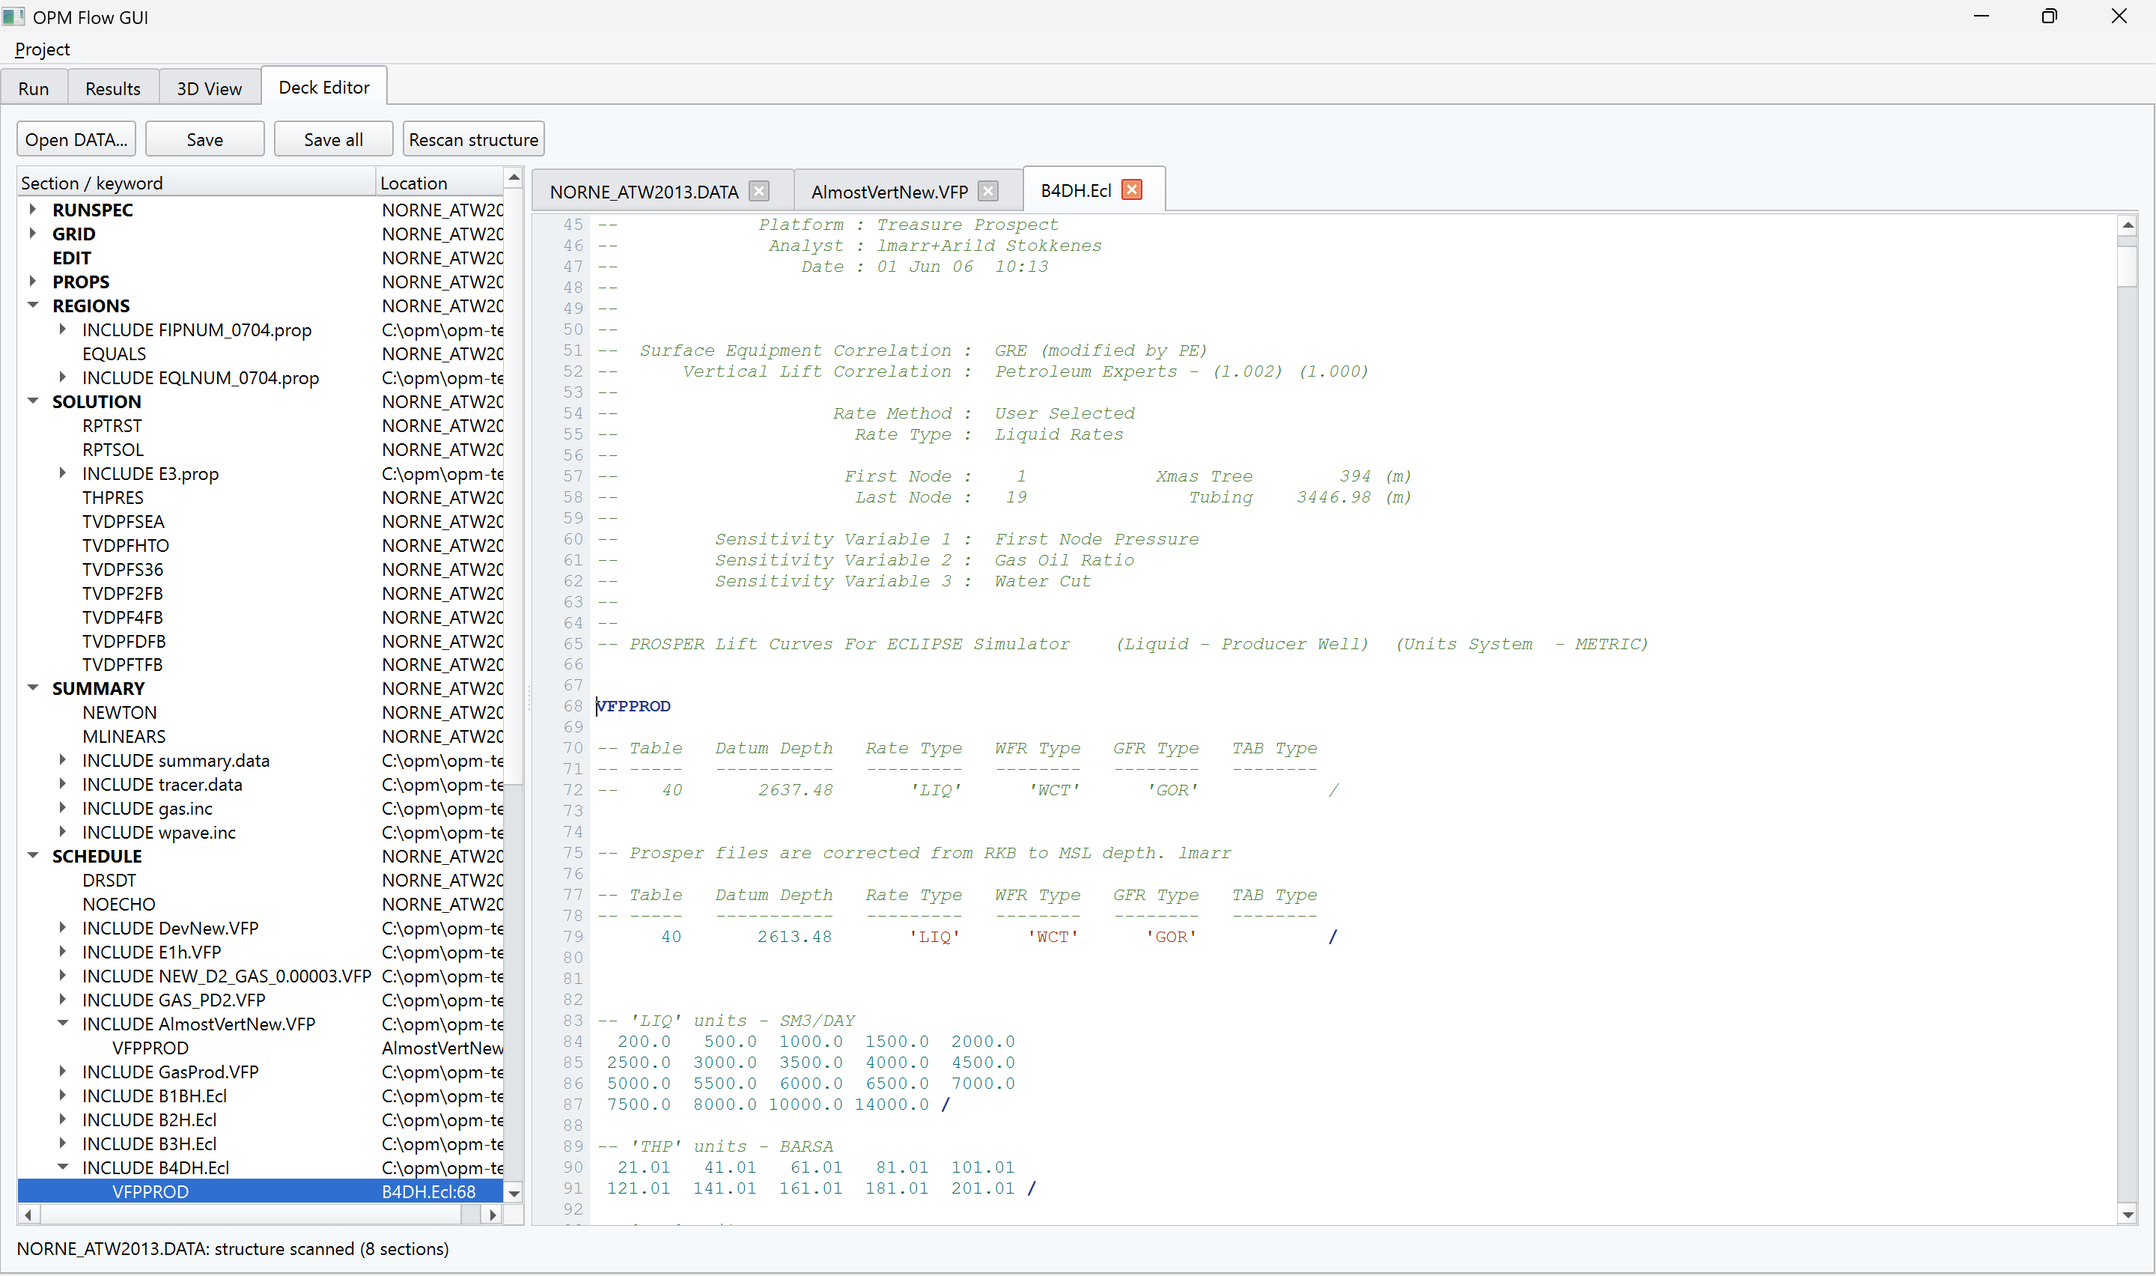
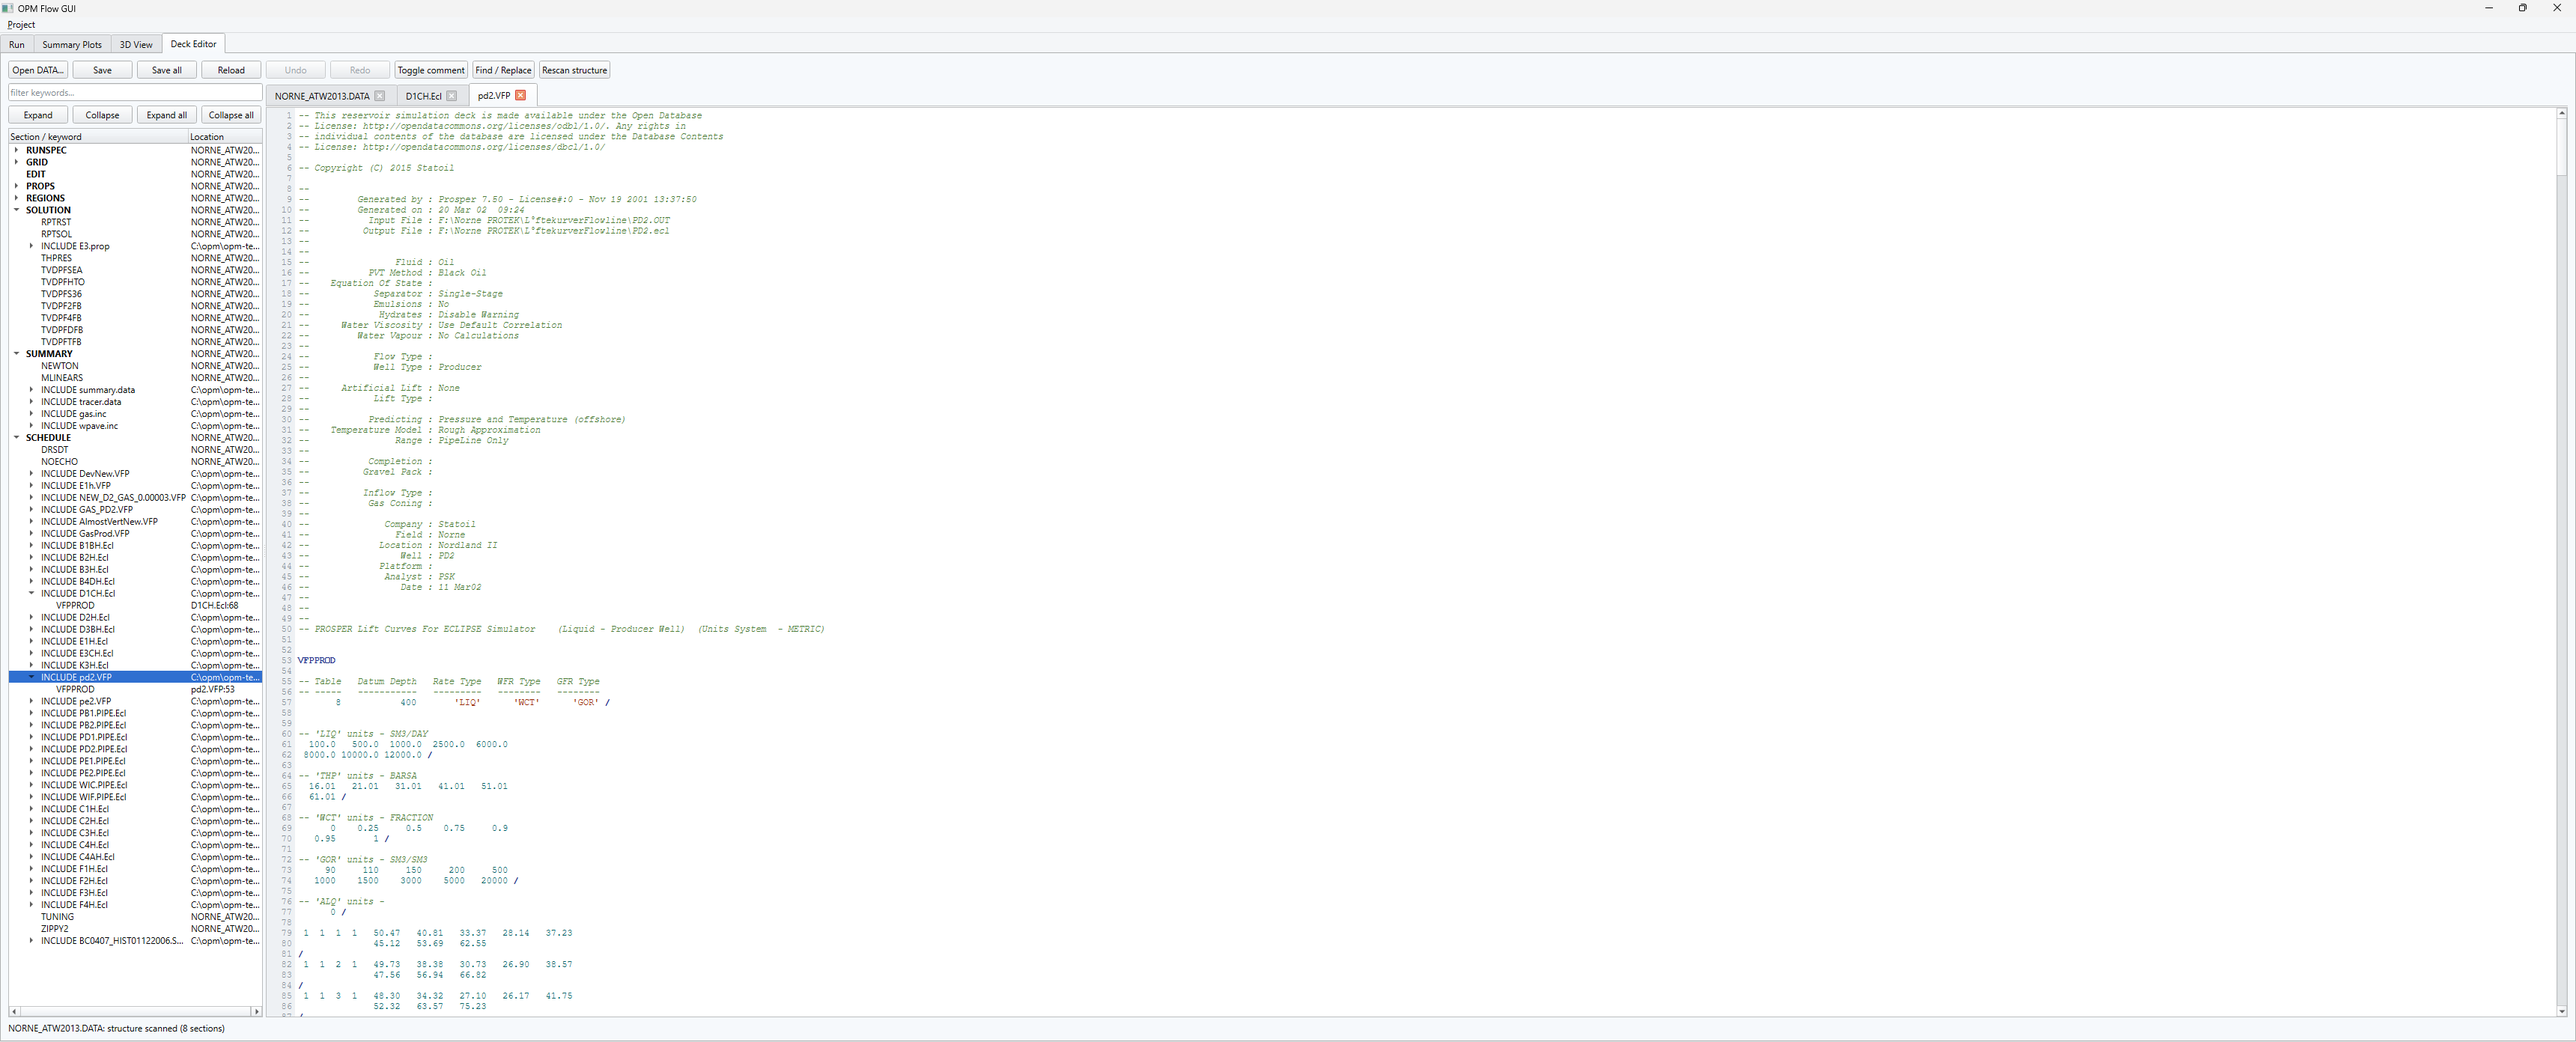
flow-gui 0.7.0: Windows package caught up with the GUI
The Windows package shipped flow-gui 0.3.2 while the Linux tarball was
already 0.7.0, so the notes carried two feature lists: a short one for
Windows and a "on top of the Windows feature list it adds" section under
Linux. Both platforms now build 0.7.0 from the same sources, so there is
one list again, under Contents, and the Linux section says only what is
actually Linux-specific - how to run the tarball, and that no flow is
released for it.

The staged package, the zip, the Inno Setup installer and the MSIX were
all rebuilt from the current build trees, so what they contain is
flow.exe 2026.10-pre and flow-gui.exe 0.7.0.

Screenshots refreshed against the Norne benchmark, taken from this
build: the Run tab mid-run on a custom output directory, the Summary
Plots tab comparing two runs of the same deck across a 2x2 subplot
layout, the 3D view part-way through the report steps, and the deck
editor following an INCLUDE into a lift-curve table.

diff --git a/release-notes/v2026.10-pre.md b/release-notes/v2026.10-pre.md
@@ -6,15 +6,18 @@ OPM Flow for Windows — native MSVC build (hybrid MPI + OpenMP) with a Qt GUI w
 - `OPM-Flow-2026.10.0.0.msix` — unsigned MSIX (for sideloading/Store experiments; see PACKAGING.md). **Note:** Windows will not enable its **Install** button unless the signing certificate is already trusted on the machine (it shows *"Publisher: Unknown / this app package's certificate could not be verified"*).
 - `opm-flow-gui-0.7.0-ubuntu24.04-x86_64.tar.gz` — **Linux** build of the GUI (Ubuntu 24.04 LTS, all tabs enabled). No `flow` is shipped for Linux — see the **Linux** section below.
 
-**Contents:** `flow.exe` (all model variants, including black-oil; built from current OPM master plus the pending Windows patches) and `flow-gui.exe` **0.3.2** — a full workbench:
+**Contents:** `flow.exe` (all model variants, including black-oil; built from current OPM master plus the pending Windows patches) and `flow-gui.exe` **0.7.0** — a full workbench:
 - **Full speed on modern laptops** — both `flow` and the simulators flow-gui spawns now opt out of Windows "EcoQoS" power throttling, which otherwise clocks background processes down dramatically (a serial Norne measured 1.6× slower without the exemption — including MPI ranks, which Windows always treats as background).
-- **Run tab** — job queue with live progress/ETA, Stop/Skip, deck validation (`--enable-dry-run`), re-run of an already-finished queue (after confirmation), View PRT / View DBG / Open result folder, and a developer *Simulator* override to test your own `flow` build.
-- **Results tab** — summary-vector plotting straight from `SMSPEC`/`UNSMRY`: grouped/filtered vector picker with human-readable names, multi-case comparison with per-case markers, zoom, date axis, PNG export; plots refresh live while a run is writing.
-- **3D View tab** — the corner-point grid colored by static (INIT) or dynamic (UNRST) properties incl. synthesized SOIL, well trajectories colored by type, report-step animation, auto-framed default view.
-- **Projects** — save/load the whole session (queue, run options, cases) as a readable `.opmproj` file.
-- **Deck Editor tab** — section tree over the deck and its INCLUDE files with Eclipse syntax highlighting; edits are saved to the original files.
+- **Run tab** — job queue with live progress/ETA, Stop/Skip, deck validation (`--enable-dry-run`), re-run of an already-finished queue (after confirmation), View PRT / View DBG / Open result folder, and a developer *Simulator* override to test your own `flow` build. *Run selected* runs only the highlighted decks instead of the whole queue, a **TUNING** checkbox passes `--enable-tuning` (off by default, matching flow's own default), and *Run*/*Validate* offer to save pending deck edits first, since flow re-reads the decks from disk.
+- **Summary Plots tab** (renamed from *Results*) — summary-vector plotting straight from `SMSPEC`/`UNSMRY`: grouped/filtered vector picker with human-readable names plus qsummary-style **wildcard filtering** (`WBHP:B*, WOPR*`); click-to-focus **subplots** (1 / 2×1 / 2×2), each with its own vector selection; multi-case comparison with **renameable** cases whose new name drives the legend; calendar-date X axis by default; refresh-stable tree and zoom; CSV export. Plots refresh live while a run is still writing. Runs of the same deck are told apart by the part of their path that differs — **every** one of them, however they were loaded, so no case is left saying only the deck's name.
+- **Publication-quality figures** — the legend docks to any edge, floats inside the plot (draggable with the mouse), or hides, and is set in bold a size above the axis labels with a line sample drawn heavier than the curve, so colour and case dash read at a glance; *Save figure...* writes a **vector PDF** sized to the figure (7 in wide, no margins, straight into `\includegraphics`) or a **300 dpi PNG** rendered at 3× rather than grabbed off the screen; colourblind-safe palette with round axis ticks, adjustable line width and marker size. Markers show **every data point** in the summary by default — nothing is sampled away, so they are exactly the samples the run wrote — with **hover** reporting the case, date and value; an *every n* box thins them on a dense curve, stepping by whole data points so a drawn marker is always a real `(time, value)` sample. A per-case shape and hollow fill (after the first case) keep curves separable where markers coincide, and with markers on the **legend shows them too** — each entry's sample is that case's shape riding on its line, so an entry looks like the curve it stands for.
+- **3D View tab** — the corner-point grid colored by static (INIT) or dynamic (UNRST) properties incl. synthesized SOIL, well trajectories colored by type, and report-step animation with a **scrubbable** step bar: drag it, or click anywhere on it, to jump straight to that step. The orbit is unrestricted, so the model can be turned to show the base of the reservoir, with a *View* menu for Home / Top / Bottom / Side and an auto-framed default view. A *Remove* button drops a case from the list so it does not grow with every job of a long session (removing a case in the Summary Plots tab drops it here too).
+- **Deck Editor tab** — section tree over the deck and its INCLUDE files with Eclipse syntax highlighting, a keyword filter with expand/collapse, find & replace (*Replace all*, case sensitive by default), Undo/Redo, *Toggle comment* (Ctrl+/), reload of files changed outside the GUI, and double-click / right-click on an INCLUDE'd file name to open it; edits are saved to the original files, never a flattened copy.
+- **Sessions and projects that come back** — a `.opmproj` file (and, with no project at all, simply closing the GUI) carries the whole working setup, not just the queue: the plotted **cases** and which one is **active**, the vector filters, **what each subplot shows** and how it is drawn (layout, legend placement including a dragged one, line width, markers), the **3D view**'s case and property, the **deck editor**'s open files, the front tab, the window geometry, and each finished job's output directory and outcome — so *View PRT* and *Open folder* still work on last week's runs. Starting flow-gui again picks up where the last session stopped; the 3D grid is only re-read once that tab is looked at, so it costs nothing at startup. Version 1 project files still open.
 
-flow-gui is cross-platform (the same sources build on Linux and macOS). Upgrading from the previous pre-release: the GUI executable was renamed from `flow-gui-qt.exe` to `flow-gui.exe`, and saved GUI settings/queue reset once due to the rename.
+Fixed along the way, from testing: the output-directory chooser could keep the *Directory:* box on the old name after a new folder was renamed, so *Choose* created a stray empty directory and used it for output; two runs of the same deck now **both** carry a tag saying which run they are, instead of only the second one being tagged; a run written to a **custom output directory** is no longer registered twice and listed under the same folder twice (it reached the GUI in native separators from there and with forward slashes from everywhere else, which compared as two different cases); the 3D step bar used to page towards a click instead of going there, and moving it while a static property was shown did nothing at all; and stepping through a run no longer grows without bound, since the restart reader caches every array it is asked for and cannot evict them one by one — its cache is now dropped wholesale once past a budget, which matters on models with millions of cells.
+
+flow-gui is cross-platform: the same sources build on Windows, Linux and macOS, and the Windows package and the Linux tarball below are the same 0.7.0. Upgrading from the previous pre-release: the GUI executable was renamed from `flow-gui-qt.exe` to `flow-gui.exe`, and saved GUI settings/queue reset once due to the rename.
 
 **Linux**
 
@@ -24,16 +27,7 @@ flow-gui is cross-platform (the same sources build on Linux and macOS). Upgradin
   ./opm-flow-gui-0.7.0-ubuntu24.04-x86_64/flow-gui
   ```
   Built on Ubuntu 24.04 LTS against the distro Qt; expected to also work on later Ubuntu releases.
-  The tarball is flow-gui **0.7.0**, currently a step ahead of the Windows package (which ships 0.3.2). On top of the Windows feature list it adds:
-  - **Run tab** — *Run selected* runs only the highlighted decks instead of the whole queue; *Run*/*Validate* offer to save pending deck edits first, since flow re-reads the decks from disk.
-  - **Summary Plots tab** (renamed from *Results*) — click-to-focus **subplots** (1 / 2×1 / 2×2), each with its own vector selection; qsummary-style **wildcard filtering** of the vector tree (`WBHP:B*, WOPR*`); **renameable cases** whose new name drives the plot legend; calendar-date X axis by default; refresh-stable tree and zoom; CSV export. Runs of the same deck are told apart by the part of their path that differs — **every** one of them, however they were loaded, so no case in the list is left saying only the deck's name.
-  - **Publication-quality figures** — the legend docks to any edge, floats inside the plot (draggable with the mouse), or hides, and is set in bold a size above the axis labels with a line sample drawn heavier than the curve, so colour and case dash read at a glance; *Save figure...* writes a **vector PDF** sized to the figure (7 in wide, no margins, straight into `\includegraphics`) or a **300 dpi PNG** rendered at 3× rather than grabbed off the screen; colourblind-safe palette with round axis ticks, adjustable line width and marker size. Markers show **every data point** in the summary by default — nothing is sampled away, so they are exactly the samples the run wrote — with **hover** reporting the case, date and value; an *every n* box thins them on a dense curve, stepping by whole data points so a drawn marker is always a real `(time, value)` sample. A per-case shape and hollow fill (after the first case) keep curves separable where markers coincide, and with markers on the **legend shows them too** — each entry's sample is that case's shape riding on its line, so an entry looks like the curve it stands for.
-  - **Deck editor** — keyword filter with expand/collapse, find & replace (*Replace all*, case sensitive by default), Undo/Redo, *Toggle comment* (Ctrl+/), reload of files changed outside the GUI, and double-click / right-click on an INCLUDE'd file name to open it.
-  - **3D view** — unrestricted orbit, so the model can be turned to show the base of the reservoir, plus a *View* menu with Home / Top / Bottom / Side, and a *Remove* button on the case list so it does not grow with every job of a long session (removing a case in the Summary Plots tab drops it here too). The report-step bar is now a real scrubber: drag it, or click anywhere on it, to jump to that step — previously a click paged towards it, and moving it while a static property was shown changed nothing at all. Stepping through a run no longer grows without bound either: the restart reader caches every array it is asked for and cannot evict them one by one, so its cache is now dropped wholesale once past a budget, which matters on models with millions of cells. A case is also identified by one normalized spelling of its path, so a run written to a custom output directory is no longer registered a second time (it reached the GUI in native separators from there and with forward slashes from everywhere else) and listed twice under the same folder.
-  - **TUNING checkbox** on the Run tab for `--enable-tuning` (off by default, matching flow's own default), remembered between sessions and in the project file.
-  - **Sessions and projects that come back** — a `.opmproj` file (and, with no project at all, simply closing the GUI) now carries the whole working setup, not just the queue: the plotted **cases** and which one is **active**, the vector filters, **what each subplot shows** and how it is drawn (layout, legend placement including a dragged one, line width, markers), the **3D view**'s case and property, the **deck editor**'s open files, the front tab, the window geometry, and each finished job's output directory and outcome — so *View PRT* and *Open folder* still work on last week's runs. Starting flow-gui again picks up where the last session stopped; the 3D grid is only re-read once that tab is looked at, so it costs nothing at startup. Version 1 project files still open.
-
-  Fixed along the way, from testing: the output-directory chooser could keep the *Directory:* box on the old name after a new folder was renamed, so *Choose* created a stray empty directory and used it for output; and two runs of the same deck now **both** carry a tag saying which run they are, instead of only the second one being tagged.
+  The tarball is flow-gui **0.7.0** — the same version, from the same sources, as the Windows package above, so the feature list under **Contents** applies unchanged.
 - **Bring your own simulator** — unlike the Windows package, we do not release `flow` for Linux. Install or build OPM Flow following [opm-project.org](https://opm-project.org/?page_id=36) (e.g. the OPM binary packages: `sudo apt install mpi-default-bin opm-simulators`), then point the *Simulator:* field on the Run tab at it once (e.g. `/usr/bin/flow` or your own `.../opm-simulators/bin/flow`) — remembered between sessions.
 - **Other distros: build flow-gui yourself** — it is a small standard CMake + Qt 6 project:
   ```bash
